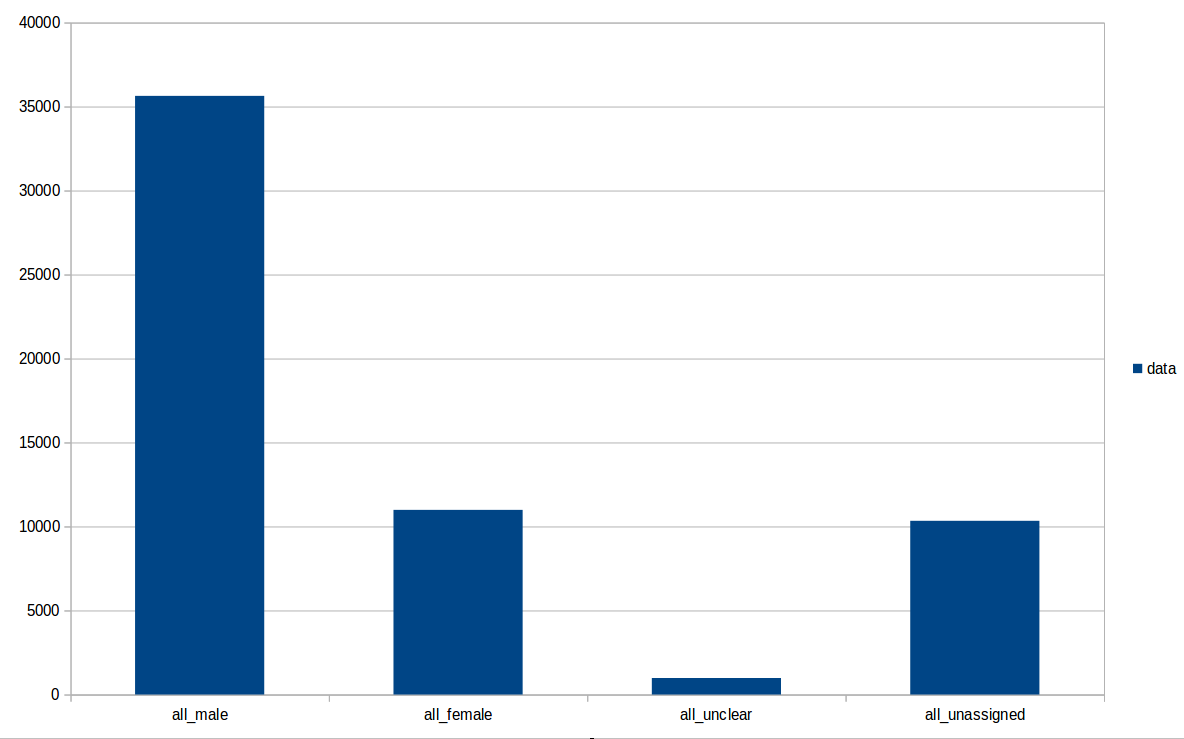
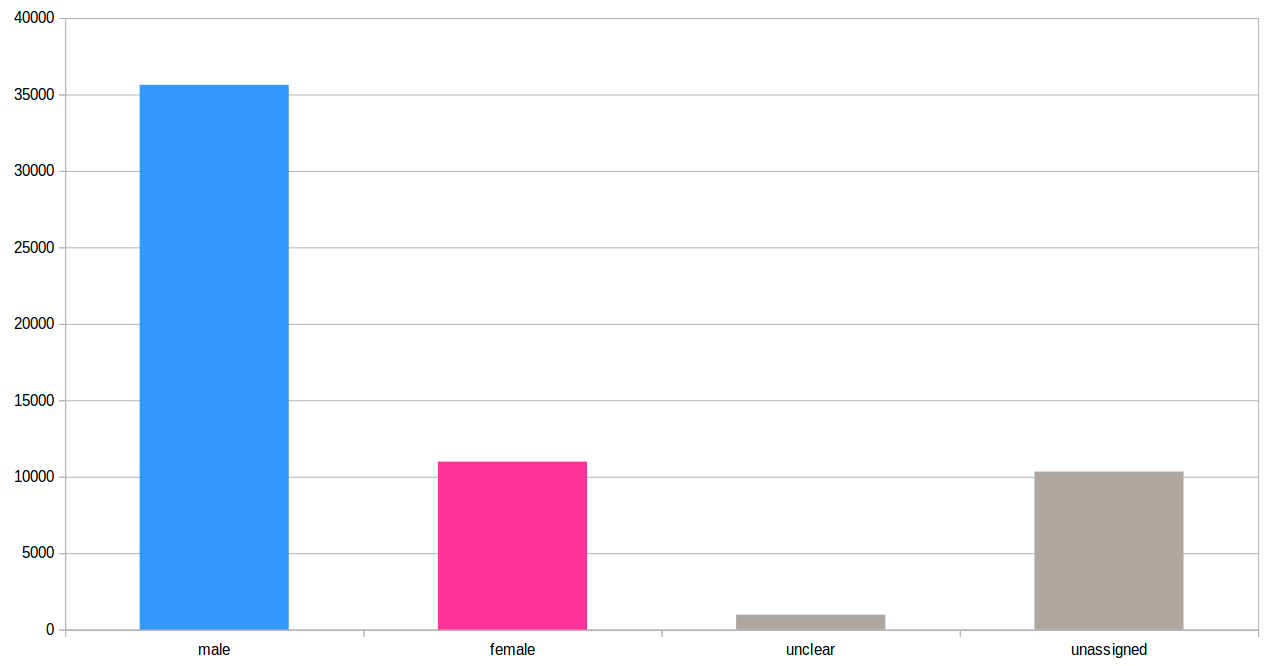
Improve visualizations a bit

diff --git a/prototype.html b/prototype.html
@@ -77,7 +77,7 @@
     }
 
     .welcome-pic {
-      background-image: url('img/how_it_works.png');
+      background-image: url('img/welcome.jpeg');
       background-repeat: no-repeat;
       background-size: contain;
       width: 100%;
@@ -93,15 +93,7 @@
     }
 
     .prof_gender_data {
-      background-image: url('img/prof_gedner_data.png');
-      background-repeat: no-repeat;
-      background-size: contain;
-      width: 100%;
-      height: 100%;
-    }
-
-    .single_person_project_or_collab {
-      background-image: url('img/single_person_project_or_collab.png');
+      background-image: url('img/prof_gender_data.png');
       background-repeat: no-repeat;
       background-size: contain;
       width: 100%;
@@ -147,34 +139,29 @@
         </p>
         <p>Unfortunately, <a href="https://www.equityinstem.org/networks-metaanalysis/">research shows</a> that people tend to form their networks with people who are similar to them, which can hinder diversity in fields that have traditionally been
           shaped by networks of white men, such as academia.</p>
-        <p>How diverse are German research projects regarding the gender ratio of their teams?</p>
-        <p>How gender diverse are individual researchers' collaborations?</p>
-        <p></p>
+        <p><strong>How diverse are German research projects regarding the gender ratio of their teams?</strong></p>
+        <p><strong>How gender diverse are individual researchers' collaborations?</strong></p>
       </div>
     </div>
 
     <div id="overall_gender_data" class="scrollable-1 scroll-info-text">
-      <p>We're looking into one of the largest German institutions to fund research projects.</p>
-      <p>The overall gender ratio of people who receive funding is already... unequal.</p>
-      <p>TODO bar chart overall_gender_data</p>
+      <p>Let's find out from data by one of the largest German institutions to fund research projects: <a href="https://gepris.dfg.de/gepris/OCTOPUS?language=en">Deutsche Forschungsgemeinschaft</a>.</p>
+      <p>They do not provide information on the gender of their research, so with <a href="https://ideas.repec.org/c/wip/eccode/10.html">a little help</a>, we had to infer a gender based on the researcher's first name.</p>
+      <p><strong>This is the gender distribution of all researchers funded by the DFG.</strong></p>
     </div>
 
     <div id="prof_gender_data" class="scrollable-1 scroll-info-text">
-      <p>Stay critical of this data, though. Because DFG does not ask for gender, we had to infer it from the researcher's first name.</p>
-      <p>To validate our assumptions, we compared a subset to the title "Professor"/"Professorin", which are the gendered German terms for professors.</p>
-      <p class="note">You'll see that in 70% of the cases, the inference of a male gender matches the title. In 79% of the cases, the inference of a female gender matches the title. Please also note that we were unable to infer outside of the gender
-        binary due to the lack of a dataset.</p>
-      <p>TODO bar chart prof_gender_data (two stacked bars, horizontal: total length is prof_male/prof_female, subbars are mismatch/unclear/unassigned)</p>
-    </div>
-
-    <div id="single_person_project_or_collab" class="scrollable-1 scroll-info-text">
-      <p>Not every project funded by the DFG is a collaboration. We will only consider projects in which more than one person is involved. This will reduce our dataset.</p>
-      <p>TODO pie chart (?) for single_person_project_or_collab</p>
+      <p>To stay critical of this data and validate our inference, we used a subset of the data that contains only professors.</p>
+      <p>Since the title "Professor" / "Professorin" has a gendered connotation in German, we could compare the gendered title to our inferred gender.</p>
+      <p class="note">Please also note that we were unable to infer outside of the gender binary due to the lack of such a dataset.</p>
+      <p>Mistakes are represented in gray and contain three error classes: a mismatch between title and inferred gender, a gender could not be assigned or the first name was not recognized.</p>
+      <p><strong>This is the ratio of correct gender inference for the subset of professors.</strong></p>
     </div>
 
     <div id="project_gender_index" class="scrollable-1 scroll-info-text">
-      <p>If we now calculate the gender ratio within each collaborative project, we will receive a distribution like so.</p>
-      <p>TODO histogram for project_gender_index['gender_index'] in 10 bars </p>
+      <p>Looking at each funded project with more than one person, we can now calculate the gender ratio per project.</p>
+      <p>Thus, the project gender index indicates the gender ratio in a project, where 0 means there are only men and 1 means there are only women. In detail, there are 10488 all-male projects and 667 all-female projects.</p>
+      <p><strong>This histogram shows the distribution of the project gender index.</strong></p>
     </div>
 
     <div class="scrollable-1 scroll-info-text">
@@ -206,6 +193,10 @@
     // load researcher data
     var topResearchers = d3.csv("data/top_researchers_by_projects.csv").then(function(data) {
       topResearchers = data;
+    });
+
+    var allResearchersGender = d3.csv("data/gender_ratio_in_dataset.csv").then(function(data) {
+      allResearchersGender = data;
     });
 
     // get the dynamic dims of chart
@@ -243,17 +234,6 @@
         d3.select('.chart')
           .append('div')
           .attr('class', 'prof_gender_data');
-        $('.chart').fadeIn(100)
-      });
-    };
-
-    var showSingleOrCollab = function() {
-      // clear chart
-      $('.chart').fadeOut(100, function() {
-        d3.select('.chart').selectAll("*").remove();
-        d3.select('.chart')
-          .append('div')
-          .attr('class', 'single_person_project_or_collab');
         $('.chart').fadeIn(100)
       });
     };
@@ -468,8 +448,7 @@
 
     scroll('overall_gender_data', '50%', showOverallGenderData, showWelcome);
     scroll('prof_gender_data', '50%', showProfGenderValidation, showOverallGenderData);
-    scroll('single_person_project_or_collab', '50%', showSingleOrCollab, showProfGenderValidation);
-    scroll('project_gender_index', '50%', showProjectGenderIndex, showSingleOrCollab);
+    scroll('project_gender_index', '50%', showProjectGenderIndex, showProfGenderValidation);
     scroll('map', '50%', showMap, showProjectGenderIndex);
 
 
